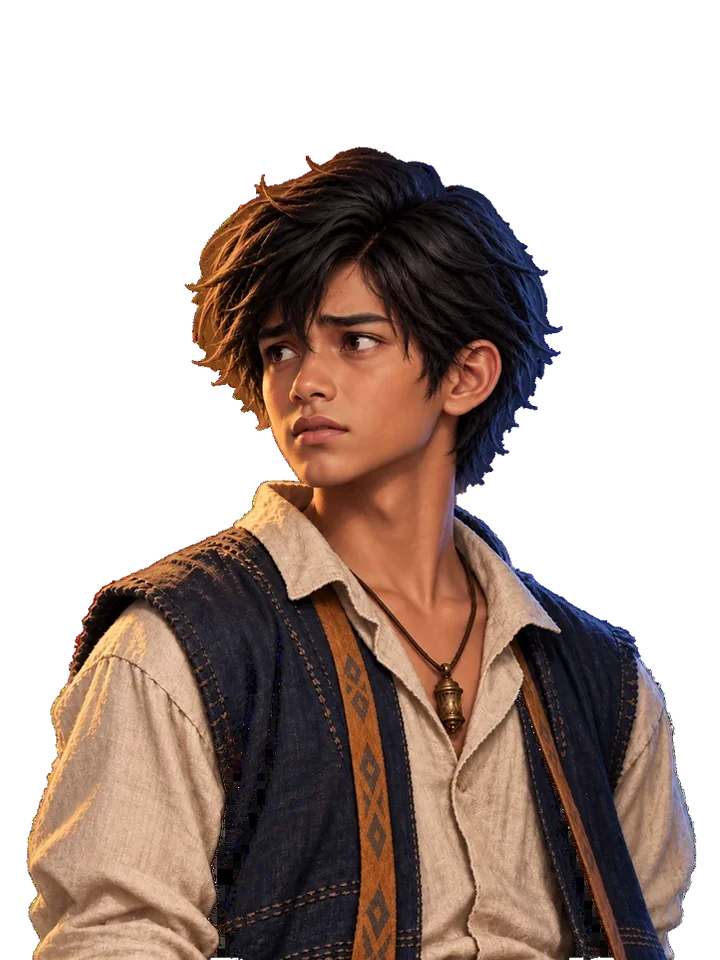
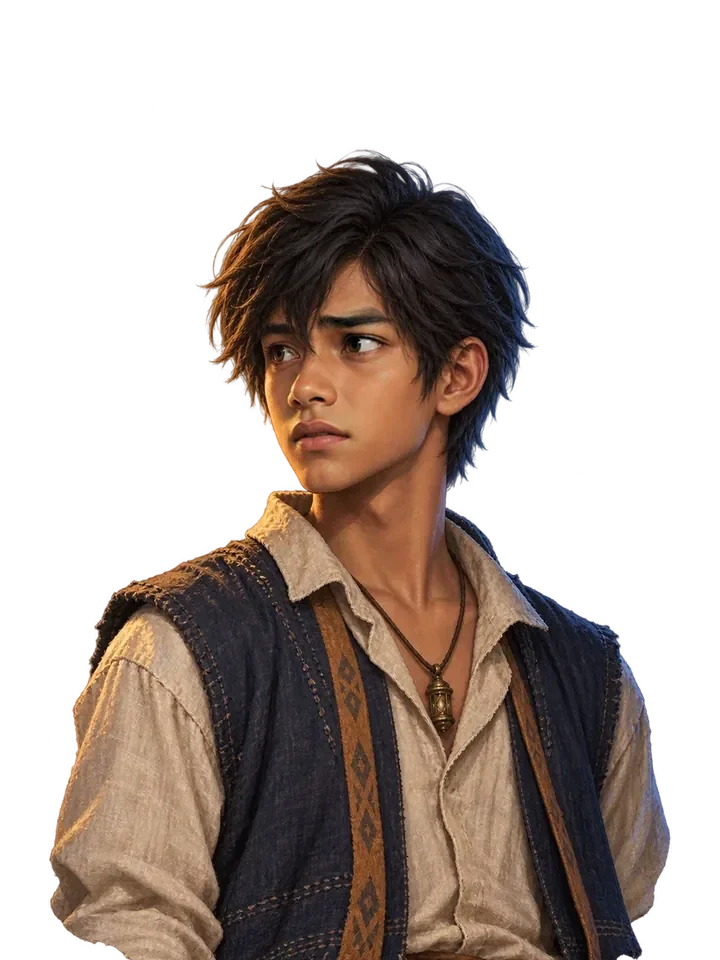
Bangun ulang happy/worried/serious dari master neutral
Ketiga ekspresi kini = neutral piksel demi piksel, kecuali wajah bagian
dalam (alis, mata, hidung, mulut, pipi) di poligon tools/zona_ekspresi.json.
Wajah itu diambil dari artwork ekspresi yang sudah disetujui, diskalakan
ke pupil & hidung neutral, disamakan warna kulitnya (Lab, cincin tepi
zona), lalu dicampur dengan tepi halus; helai poni neutral di atas mata
kiri tetap di atas. Tidak ada piksel yang digenerate.

Hasil: siluet keempat ekspresi identik (IoU 1,0000; sebelumnya 0,86-0,94),
rambut/bahu/margin = neutral, garis mata dalam 1,9 px.

Alat: rapikan_potret.py --transplantasi; audit_potret.py kini memeriksa
identitas dengan master di luar zona (Bible A6) dan tes gagal kalau
dilanggar.

Claude-Session: https://claude.ai/code/session_01Ws96Jyk7FP74wrDoW3koHw

Changed region(s): [[0.0306, 0.1562, 0.9778, 1.0]]

diff --git a/tools/rapikan_potret.py b/tools/rapikan_potret.py
@@ -1,6 +1,6 @@
 """Rapikan potret tokoh tanpa menggambar ulang (GAME_DESIGN §7.3).
 
-Tiga operasi, semuanya deterministik dan hanya memakai piksel yang sudah ada:
+Empat operasi, semuanya deterministik dan hanya memakai piksel yang sudah ada:
 
 1. ``--papan-catur``: latar papan catur yang tercetak sebagai piksel opak diganti
    transparansi sungguhan. Tepi karakter di-matte terhadap dua nada latar yang
@@ -13,6 +13,11 @@ Tiga operasi, semuanya deterministik dan hanya memakai piksel yang sudah ada:
    cocok dengan master. Landmark berkas sumber dari ``tools/landmark_potret.json``
    (``--landmark tokoh@sumber``); transformnya
    kuadrat-terkecil atas pupil, hidung, dagu, telinga.
+
+4. ``--transplantasi MASTER``: wajah bagian dalam (alis–mata–hidung–mulut–pipi, poligon di
+   ``tools/zona_ekspresi.json``) dari berkas masuk ditempel ke master; di luar zona, keluaran
+   = master piksel demi piksel. Dipakai supaya semua ekspresi memakai rambut, kepala, bahu,
+   dan pakaian yang sama persis dengan master.
 
 Pemakaian:
 
@@ -193,6 +198,79 @@ def terapkan(rgba: np.ndarray, s: float, tx: float, ty: float) -> np.ndarray:
     return np.array(hasil.convert("RGBA"))
 
 
+# ── 4. Transplantasi zona ekspresi ke master ─────────────────────────────
+ZONA = Path(__file__).resolve().parent / "zona_ekspresi.json"
+
+
+def _poligon(poligon, shape) -> np.ndarray:
+    img = Image.new("L", (shape[1], shape[0]), 0)
+    ImageDraw.Draw(img).polygon([tuple(p) for p in poligon], fill=255)
+    return np.array(img) > 0
+
+
+def _blur(mask: np.ndarray, sigma: float) -> np.ndarray:
+    img = Image.fromarray((np.clip(mask, 0, 1) * 255).astype(np.uint8))
+    return np.array(img.filter(ImageFilter.GaussianBlur(sigma))).astype(np.float64) / 255
+
+
+def _ke_lab(rgb):
+    return np.array(Image.fromarray(rgb.astype(np.uint8)).convert("LAB")).astype(np.float64)
+
+
+def _dari_lab(lab):
+    return np.array(Image.fromarray(np.clip(np.round(lab), 0, 255).astype(np.uint8), "LAB").convert("RGB"))
+
+
+def transplantasi(master: np.ndarray, eks: np.ndarray, s: float, tx: float, ty: float,
+                  poligon: list, poni: list) -> tuple[np.ndarray, dict]:
+    """Master utuh + wajah bagian dalam dari ``eks`` (Bible A6).
+
+    1. ``eks`` diskalakan/digeser supaya pupil & hidungnya jatuh di pupil & hidung master.
+    2. Warna kulitnya disamakan dengan master di cincin tepi zona (rata-rata & sebaran Lab).
+    3. Dicampur ke master lewat zona yang dihaluskan dan dikecilkan ke dalam, jadi tepi
+       zona tetap 100% master; helai poni master di kotak ``poni`` tetap di atas.
+    Di luar poligon, keluaran = master piksel demi piksel.
+    """
+    h, w = master.shape[:2]
+    Ew = terapkan(eks, s, tx, ty)[..., :3].astype(np.float64)
+    M = master[..., :3].astype(np.float64)
+    m = _poligon(poligon, (h, w))
+
+    luar = _lebarkan(m, 7) & ~_sempitkan(m, 7) & m
+    lum_m, lum_e = M.mean(2), Ew.mean(2)
+    kulit = luar & (lum_m > 90) & (lum_e > 90)
+    la, lb = _ke_lab(Ew), _ke_lab(M)
+    ma, sa = la[kulit].mean(0), la[kulit].std(0) + 1e-3
+    mb, sb = lb[kulit].mean(0), lb[kulit].std(0) + 1e-3
+    E = _dari_lab((la - ma) * np.clip(sb / sa, 0.85, 1.15) + mb).astype(np.float64)
+
+    x0, y0, x1, y1 = poni
+    kotak = np.zeros((h, w), bool)
+    kotak[y0:y1, x0:x1] = True
+    rambut = _lebarkan(kotak & m & (lum_m < 85), 1)
+
+    alpha = _blur(_sempitkan(m, 8), 4) * (1 - _blur(rambut, 1.0))
+    alpha = np.where(m, alpha, 0.0)[..., None]
+    keluar = master.copy()
+    keluar[..., :3] = np.round(alpha * E + (1 - alpha) * M).astype(np.uint8)
+    berubah = np.abs(keluar.astype(int) - master.astype(int)).max(2) > 0
+    return keluar, {"geser_warna_lab": np.round(mb - ma, 1).tolist(),
+                    "piksel_zona": int(m.sum()), "piksel_poni_master_dipertahankan": int(rambut.sum()),
+                    "piksel_berubah": int(berubah.sum()),
+                    "piksel_berubah_di_luar_zona": int((berubah & ~m).sum())}
+
+
+def fit_mata_hidung(sumber: dict, sasaran: dict) -> tuple[float, float, float, list]:
+    """Similarity dari pupil & hidung saja (wajah bagian dalam), bukan telinga/dagu."""
+    k = ("pupil_kiri", "pupil_kanan", "hidung")
+    P = np.array([sumber[x] for x in k], float)
+    Q = np.array([sasaran[x] for x in k], float)
+    pm, qm = P.mean(0), Q.mean(0)
+    s = ((P - pm) * (Q - qm)).sum() / ((P - pm) ** 2).sum()
+    t = qm - s * pm
+    return float(s), float(t[0]), float(t[1]), np.round(np.linalg.norm(s * P + t - Q, axis=1), 1).tolist()
+
+
 def main(argv: list[str]) -> int:
     ap = argparse.ArgumentParser(description=__doc__.splitlines()[0])
     ap.add_argument("masuk")
@@ -204,6 +282,8 @@ def main(argv: list[str]) -> int:
     ap.add_argument("--papan-catur", action="store_true")
     ap.add_argument("--tutup-lubang", action="store_true")
     ap.add_argument("--selaraskan", action="store_true")
+    ap.add_argument("--transplantasi", metavar="MASTER",
+                    help="tempel wajah bagian dalam MASUK ke berkas master (zona dari tools/zona_ekspresi.json)")
     ap.add_argument("--kualitas", type=int, default=85)
     ap.add_argument("--batas-kepala", type=int, default=0,
                     help="y kerah di berkas sumber; di atasnya kantong latar di sela rambut ikut dibuang")
@@ -221,6 +301,14 @@ def main(argv: list[str]) -> int:
         rgba = terapkan(rgba, s, tx, ty)
         laporan["selaraskan"] = {"skala": round(s, 4), "geser_x": round(tx, 1), "geser_y": round(ty, 1),
                                  "galat_landmark_px": round(galat, 1)}
+    if a.transplantasi:
+        lm = json.loads(LANDMARK.read_text(encoding="utf-8"))
+        zona = json.loads(ZONA.read_text(encoding="utf-8"))[a.tokoh]
+        s, tx, ty, galat = fit_mata_hidung(lm[a.landmark or a.tokoh][a.ekspresi], lm[a.tokoh][a.master])
+        master = np.array(Image.open(a.transplantasi).convert("RGBA"))
+        rgba, laporan["transplantasi"] = transplantasi(master, rgba, s, tx, ty, zona["poligon"], zona["poni"])
+        laporan["transplantasi"].update({"skala": round(s, 4), "geser_x": round(tx, 1), "geser_y": round(ty, 1),
+                                         "galat_pupil_hidung_px": galat})
     Image.fromarray(rgba, "RGBA").save(a.keluar, "WEBP", quality=a.kualitas, alpha_quality=100, method=6)
     laporan["kb"] = round(Path(a.keluar).stat().st_size / 1024, 1)
     print(json.dumps(laporan, ensure_ascii=False))

diff --git a/tools/audit_potret.py b/tools/audit_potret.py
@@ -7,6 +7,8 @@ melaporkan apakah berkas itu layak tampil di panggung:
 - puncak kepala (crown), badan sampai tepi bawah, lebar bahu di y=600
 - latar tercetak: piksel opak di bingkai 4 px tepi kanvas (papan catur, latar hitam, dst.)
 - lubang pakaian: piksel transparan di dalam siluet, di bawah leher (y >= 480)
+- identitas dengan master di luar zona ekspresi (``tools/zona_ekspresi.json``, Bible A6):
+  selisih piksel rata-rata & persentil 99 harus setara derau encode ulang WebP
 - landmark wajah (pupil, dagu) dari ``landmark_potret.json`` yang diukur manual,
   lalu kecocokannya dengan crop wajah di ``tokoh.json`` dan dengan master (neutral).
   Landmark disimpan di ``tools/landmark_potret.json`` (koordinat kanvas 720x960).
@@ -26,12 +28,16 @@ import sys
 from pathlib import Path
 
 import numpy as np
-from PIL import Image
+from PIL import Image, ImageFilter
 
 AKAR = Path(__file__).resolve().parent.parent
 ASET = AKAR / "pelita" / "web" / "static" / "assets" / "characters"
 REGISTRI = AKAR / "pelita" / "data" / "tokoh.json"
 LANDMARK = Path(__file__).resolve().parent / "landmark_potret.json"
+ZONA = Path(__file__).resolve().parent / "zona_ekspresi.json"
+# Derau encode ulang WebP q85 pada master Rimba: rata-rata 3,0, p99 10. Di atas ini = gambar lain.
+LUAR_ZONA_RATA = 4.0
+LUAR_ZONA_P99 = 14
 
 KANVAS = (720, 960)
 BATAS_KB = 160
@@ -135,6 +141,25 @@ def audit_tokoh(tid: str) -> list[dict]:
                                 and lm["dagu"][1] <= y + s)
             r["zona_panggung_ok"] = bool(lm["dagu"][1] <= ZONA_PANGGUNG)
         hasil.append(r)
+    zona = muat_json(ZONA).get(tid)
+    berkas_master = next((b for b in (ASET / tid).glob(f"{bawaan}.*") if b.suffix in (".webp", ".png")), None)
+    if zona and berkas_master:
+        from PIL import ImageDraw
+        M = np.array(Image.open(berkas_master).convert("RGBA")).astype(int)
+        img = Image.new("L", KANVAS, 0)
+        ImageDraw.Draw(img).polygon([tuple(p) for p in zona["poligon"]], fill=255)
+        dalam = np.array(img.filter(ImageFilter.MaxFilter(9))) > 0        # + pita 4 px derau di tepi zona
+        for r in hasil:
+            if r["ekspresi"] == bawaan:
+                continue
+            X = np.array(Image.open(ASET / tid / r["berkas"]).convert("RGBA")).astype(int)
+            if X.shape != M.shape:
+                continue
+            luar = ~dalam & ((M[..., 3] > 0) | (X[..., 3] > 0))
+            d = np.abs(X - M).max(2)[luar]
+            r["luar_zona_rata"] = round(float(d.mean()), 2)
+            r["luar_zona_p99"] = float(np.percentile(d, 99))
+            r["luar_zona_sama"] = bool(r["luar_zona_rata"] <= LUAR_ZONA_RATA and r["luar_zona_p99"] <= LUAR_ZONA_P99)
     master = next((r for r in hasil if r["ekspresi"] == bawaan and "garis_mata" in r), None)
     for r in hasil:
         if master and "garis_mata" in r:
@@ -142,6 +167,7 @@ def audit_tokoh(tid: str) -> list[dict]:
             r["geser_dagu_vs_master"] = round(r["dagu"] - master["dagu"], 1)
             r["skala_vs_master"] = round(r["mata_ke_dagu"] / master["mata_ke_dagu"], 3)   # info saja
         r["panggung_siap"] = bool(
+            r.get("luar_zona_sama", True) and
             r["kanvas"] == list(KANVAS) and r["alpha_min_maks"][0] == 0 and not r["latar_tercetak"]
             and r["lubang_pakaian_px"] < 50 and r["kb"] <= BATAS_KB
             and (not master or r is master or (
@@ -159,7 +185,7 @@ def main(argv: list[str]) -> int:
         return 0
     kolom = ["ekspresi", "kanvas", "kb", "alpha_min_maks", "crown", "garis_mata", "dagu", "bawah",
              "bahu_y600", "geser_mata_vs_master", "geser_dagu_vs_master", "skala_vs_master", "latar_tercetak",
-             "papan_catur", "lubang_pakaian_px", "crop_ok", "zona_panggung_ok", "panggung_siap"]
+             "papan_catur", "lubang_pakaian_px", "luar_zona_rata", "luar_zona_p99", "crop_ok", "zona_panggung_ok", "panggung_siap"]
     for tid, rows in semua.items():
         print(f"== {tid}")
         for r in rows:

diff --git a/tests/test_tokoh.py b/tests/test_tokoh.py
@@ -267,8 +267,9 @@ def test_klien_punya_lapisan_panggung():
 # ── Kelayakan aset untuk panggung (tools/audit_potret.py) ────────────────
 def test_aset_tokoh_layak_panggung(registri):
     """Tiap berkas tokoh terdaftar: 720x960, latar benar-benar transparan (bukan papan catur
-    atau latar yang tercetak), tanpa lubang di pakaian, dan — kalau landmark wajahnya tercatat —
-    garis mata & dagu dalam toleransi Bible terhadap ekspresi bawaan, serta muat di crop wajah."""
+    atau latar yang tercetak), tanpa lubang di pakaian, di luar zona ekspresi identik dengan
+    master (Bible A6), dan — kalau landmark wajahnya tercatat — garis mata & dagu dalam
+    toleransi Bible terhadap ekspresi bawaan, serta muat di crop wajah."""
     pytest.importorskip("numpy")
     pytest.importorskip("PIL")
     import sys
@@ -283,4 +284,7 @@ def test_aset_tokoh_layak_panggung(registri):
             assert r["lubang_pakaian_px"] < 50, f"{nama}: {r['lubang_pakaian_px']} px lubang di pakaian"
             if "garis_mata" in r:
                 assert r["crop_ok"], f"{nama}: mata/dagu di luar crop wajah {r['crop_wajah']}"
+            if "luar_zona_sama" in r:
+                assert r["luar_zona_sama"], (f"{nama}: di luar zona ekspresi berbeda dari master "
+                                             f"(rata {r['luar_zona_rata']}, p99 {r['luar_zona_p99']})")
             assert r["panggung_siap"], f"{nama}: {r}"

diff --git a/pelita/web/static/assets/characters/README.md b/pelita/web/static/assets/characters/README.md
@@ -17,41 +17,44 @@ di atas latar, dan di-crop jadi wajah kecil di samping baris dialog.
 ## Memeriksa & merapikan aset
 
 ```bash
-python tools/audit_potret.py rimba      # ukuran, alpha, latar tercetak, lubang pakaian, garis mata vs neutral
+python tools/audit_potret.py rimba      # ukuran, alpha, latar tercetak, lubang, identitas di luar zona, garis mata
 python tools/rapikan_potret.py SUMBER.webp rimba/happy.webp --tokoh rimba --ekspresi happy \
-    --papan-catur --batas-kepala 440 --tutup-lubang --selaraskan --landmark rimba@rilis2
+    --landmark rimba@selaras --transplantasi rimba/neutral.webp
 ```
 
-`audit_potret.py` juga dijalankan oleh `tests/test_tokoh.py`: berkas dengan latar tercetak,
-lubang di pakaian, atau garis mata/dagu di luar toleransi Bible (±4 / ±12 px terhadap
-ekspresi bawaan) membuat tes gagal. Landmark wajah dicatat di `tools/landmark_potret.json`
-dan harus diukur ulang setiap kali berkas diganti.
+`audit_potret.py` juga dijalankan oleh `tests/test_tokoh.py`. Tes gagal kalau ada berkas dengan:
+latar tercetak, lubang di pakaian, piksel di luar zona ekspresi yang berbeda dari master
+(`tools/zona_ekspresi.json`, Bible A6), atau garis mata/dagu di luar toleransi Bible
+(±4 / ±12 px). Landmark wajah dicatat di `tools/landmark_potret.json` dan harus diukur ulang
+setiap kali berkas diganti.
 
 ## Catatan aset pilot Rimba
 
-Sumber: set rilis kedua. `neutral` dipasang apa adanya (master). Tiga ekspresi lain dirapikan
-dengan `tools/rapikan_potret.py`, tanpa menggambar ulang: hanya matting latar, pemulihan alpha,
-dan skala + geser (tanpa rotasi).
+`neutral.webp` adalah master dan dipasang apa adanya. `happy`, `worried`, dan `serious` dibangun
+ulang dari master: **seluruh gambar = neutral**, kecuali wajah bagian dalam (alis, mata, hidung,
+mulut, pipi) di poligon `tools/zona_ekspresi.json`. Wajah itu diambil dari artwork ekspresi yang
+sudah disetujui (set rilis kedua, setelah dibersihkan & diselaraskan pada commit 069ebcd),
+diskalakan supaya pupil & hidungnya jatuh di pupil & hidung neutral, disamakan warna kulitnya,
+lalu dicampur dengan tepi yang dihaluskan. Helai poni neutral yang menyilang mata kiri tetap di
+atas. Tidak ada piksel yang digambar/digenerate.
 
-| Berkas | KB | Perbaikan | Transform ke neutral |
-|---|---|---|---|
-| `neutral.webp` | 123 | — (master) | — |
-| `happy.webp` | 94 | Papan catur tercetak di-matte jadi transparan; lubang rompi tertutup (RGB di bawahnya masih utuh) | skala 0,9364, geser (+29,5; +87,7) |
-| `worried.webp` | 88 | Lubang rompi (11.293 px) ditutup dengan memulihkan alpha | skala 0,9977, geser (+1,6; +38,8) |
-| `serious.webp` | 133 | — | skala 1,0022, geser (−5,5; +29,3) |
+| Berkas | KB | Skala wajah | Geser | Galat pupil/hidung |
+|---|---|---|---|---|
+| `neutral.webp` | 123 | — (master) | — | — |
+| `happy.webp` | 115 | 1,0416 | (−12,6; −12,3) | 1,9 / 0,5 / 1,6 px |
+| `worried.webp` | 115 | 1,0489 | (−16,0; −15,0) | 2,0 / 3,7 / 5,5 px |
+| `serious.webp` | 115 | 1,0691 | (−22,7; −20,6) | 0,7 / 4,6 / 4,8 px |
 
-Setelah dirapikan, garis mata keempatnya dalam ±1,4 px dan dagu dalam ±7,2 px dari neutral,
-jadi satu crop wajah `[205, 237, 260]` dipakai untuk semuanya.
+Hasil: siluet keempatnya identik (IoU 1,0000), di luar zona selisihnya setara derau encode WebP
+(rata-rata 3,0, p99 11), garis mata dalam ±1,9 px, margin & framing = neutral.
 
-**Yang masih tersisa (butuh gambar baru, bukan transform):**
+**Yang masih tersisa:**
 
-- Neutral dibuat terpisah dari tiga ekspresi lain: rambutnya lebih tipis dan bahunya lebih
-  sempit/rendah. Wajah tidak melompat, tapi siluet rambut dan bahu berubah sedikit saat
-  berganti dari/ke neutral (IoU siluet kepala 0,86–0,89; antar-ekspresi lain 0,93–0,94).
-- Putaran kepala sedikit berbeda (galat landmark telinga 12–20 px); skala + geser tidak bisa
-  memperbaikinya tanpa warp.
-- Keempatnya tidak memenuhi grid Bible §4 (garis mata di y≈347, bukan 240; margin samping
-  `happy`/`worried`/`serious` 11–30 px, bukan ≥ 48). Neutral master sendiri sudah di luar grid.
-- `happy`: tepi lengan kiri terpotong lurus di x≈30 (tepi kanvas sumber ikut tergeser), di
-  bawah y≈610; di panggung hanya ujungnya yang terlihat. Beberapa bintik 1–2 px sisa papan
-  catur mungkin masih ada di ujung helai.
+- Keempatnya di luar grid Bible §4 (garis mata di y≈348, bukan 240), karena neutral master
+  sendiri begitu. Memperbaikinya butuh master baru, bukan transform.
+- Fitur wajah `worried`/`serious` sedikit lebih besar daripada neutral (skala 1,05–1,07),
+  mengikuti proporsi artwork sumbernya. Di ukuran panggung hampir tak terlihat.
+- `happy` sumbernya jauh lebih terang (L −24 dikoreksi); rona kulitnya sudah disamakan di tepi
+  zona, tapi di dalam wajah tetap sedikit lebih hangat daripada neutral.
+- Ekspresi hanya berubah di dalam zona: senyum `happy` tidak mengangkat kontur pipi luar atau
+  rahang, karena itu milik neutral.

diff --git a/GAME_DESIGN.md b/GAME_DESIGN.md
@@ -1063,13 +1063,13 @@ log tetap ada.
 `"panggung": false` di registri karena latarnya tercetak, tetap dipakai untuk wajah di log, tapi
 panggung memakai ekspresi bawaan supaya tidak muncul kotak berlatar.
 
-**Status pilot.** Rimba: empat ekspresi siap panggung. `happy`/`worried`/`serious` dirapikan
-tanpa menggambar ulang (`tools/rapikan_potret.py`: matting papan catur, pemulihan alpha
-lubang pakaian, skala + geser ke landmark neutral), jadi garis mata keempatnya sama (±1,4 px)
-dan satu crop wajah cukup. `tools/audit_potret.py` menjaga ini lewat `tests/test_tokoh.py`.
-Sisa yang butuh gambar baru — siluet rambut/bahu neutral berbeda, dan set ini di luar grid
-Bible §4 — dicatat di `pelita/web/static/assets/characters/README.md`. Tokoh lain didaftarkan
-setelah gambarnya ada.
+**Status pilot.** Rimba: empat ekspresi siap panggung. `neutral` adalah master; `happy`,
+`worried`, dan `serious` = neutral piksel demi piksel kecuali wajah bagian dalam (poligon di
+`tools/zona_ekspresi.json`), yang diambil dari artwork ekspresi dan ditempel dengan
+`tools/rapikan_potret.py --transplantasi` tanpa menggambar ulang. Siluet keempatnya identik,
+jadi ganti ekspresi tidak menggeser rambut, kepala, atau bahu. `tools/audit_potret.py` menjaga
+ini lewat `tests/test_tokoh.py`. Sisa — set ini di luar grid Bible §4 karena masternya — dicatat
+di `pelita/web/static/assets/characters/README.md`. Tokoh lain didaftarkan setelah gambarnya ada.
 
 ---
 
